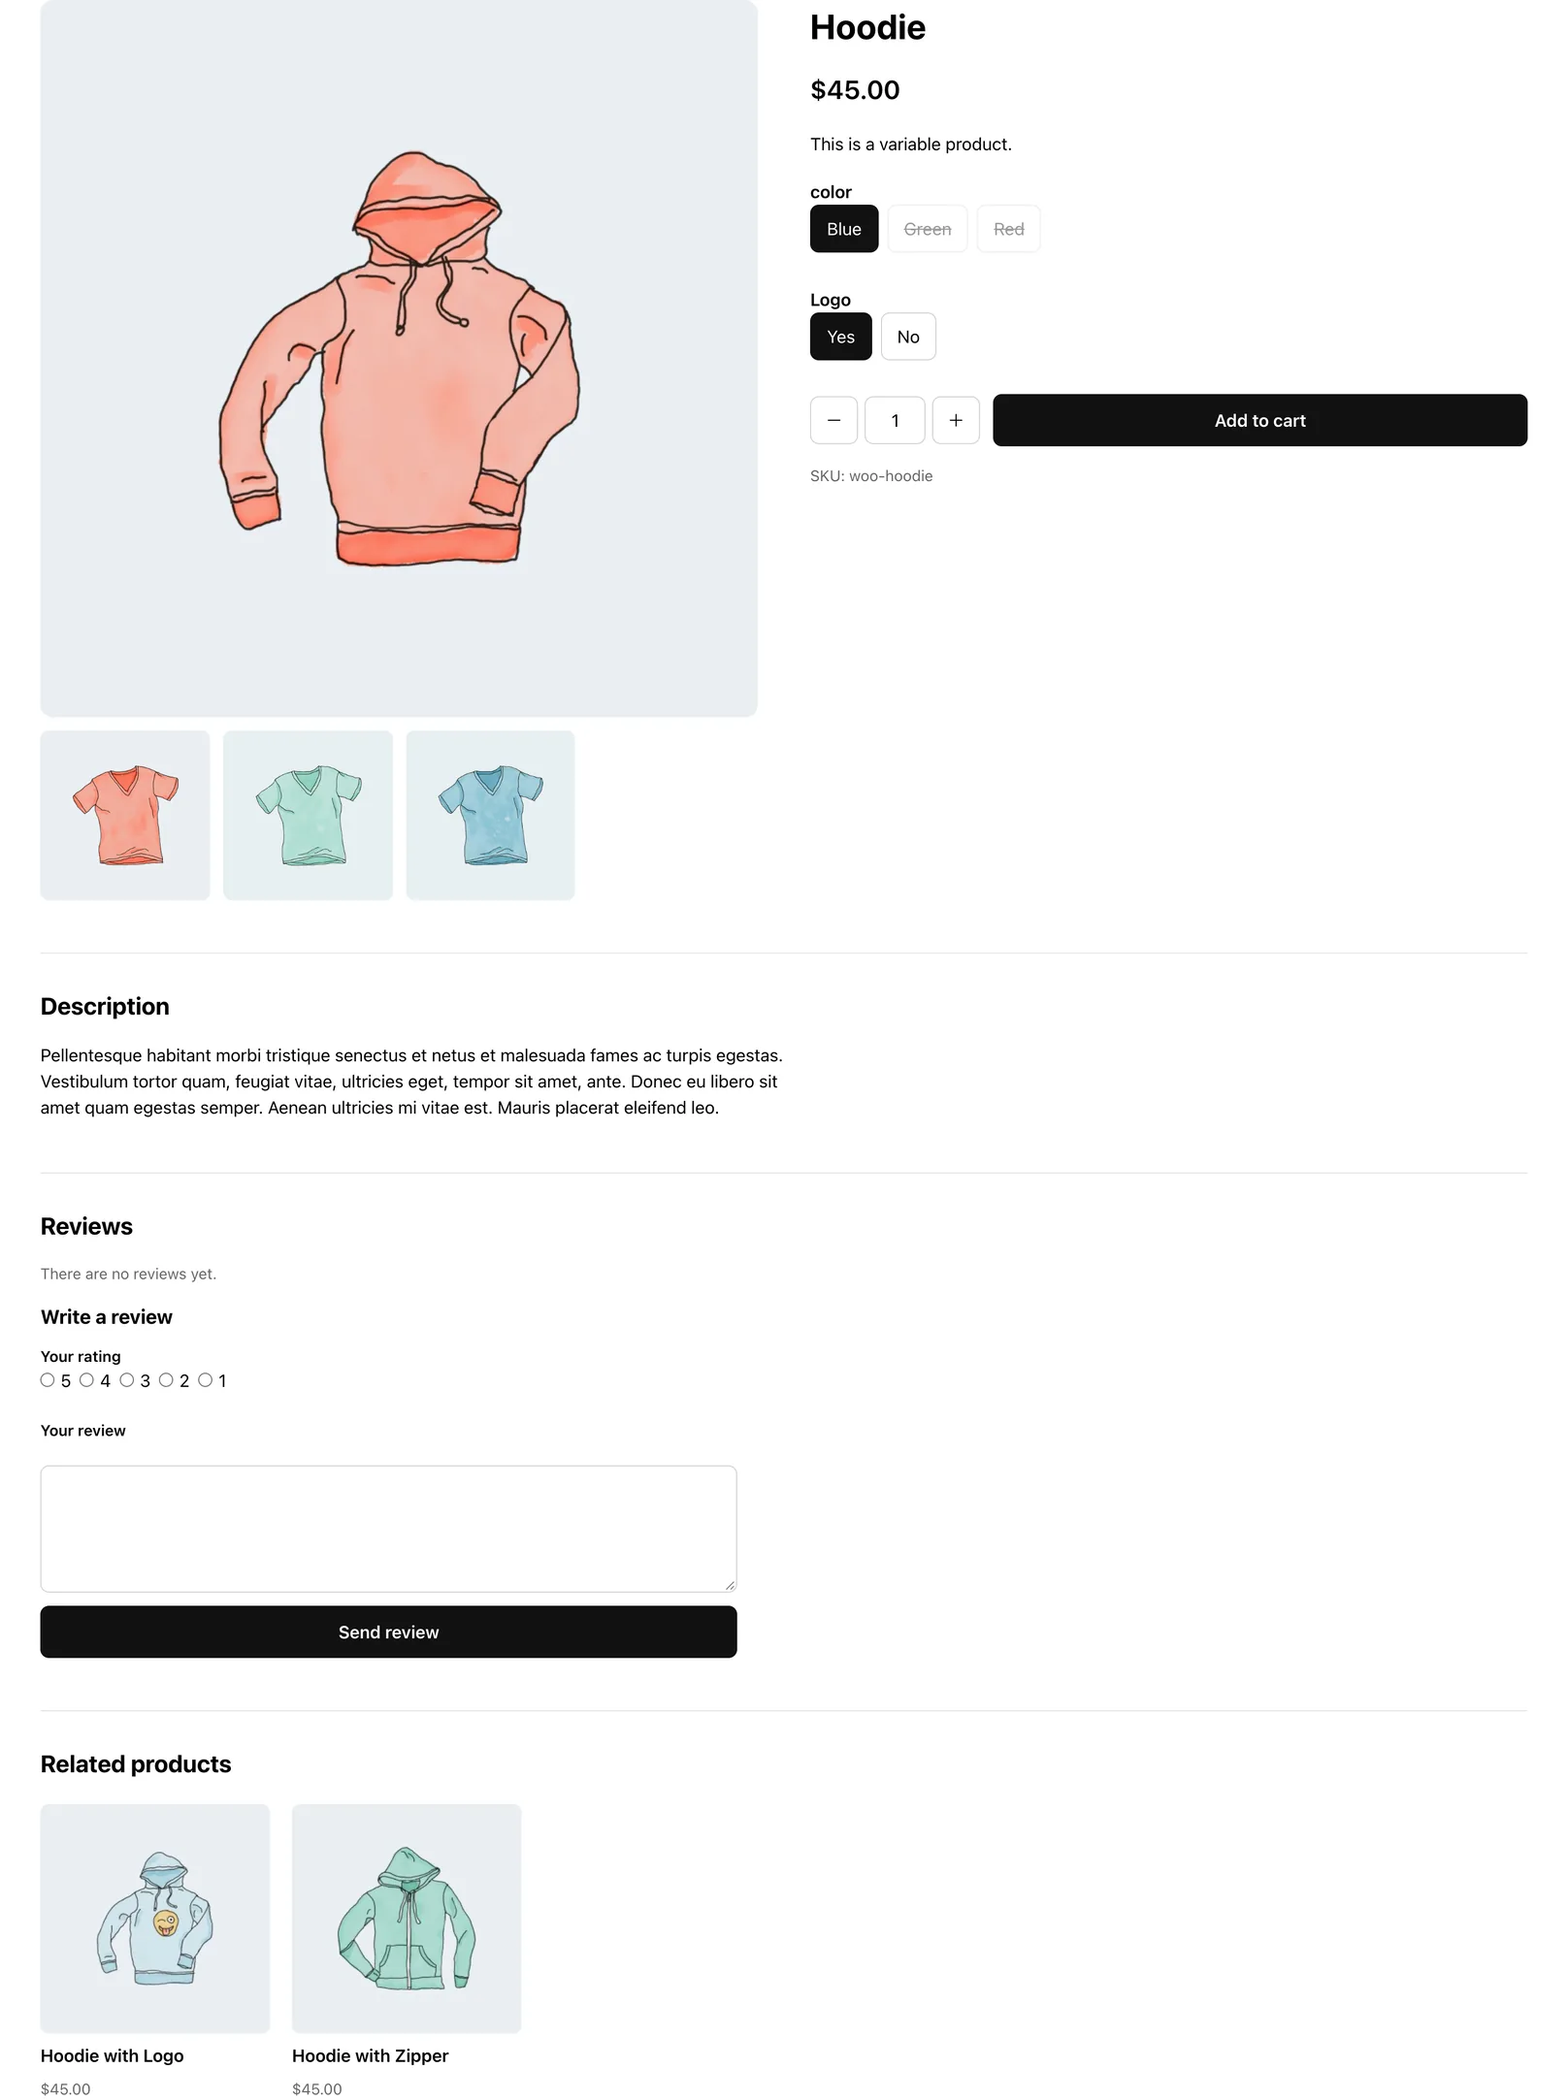
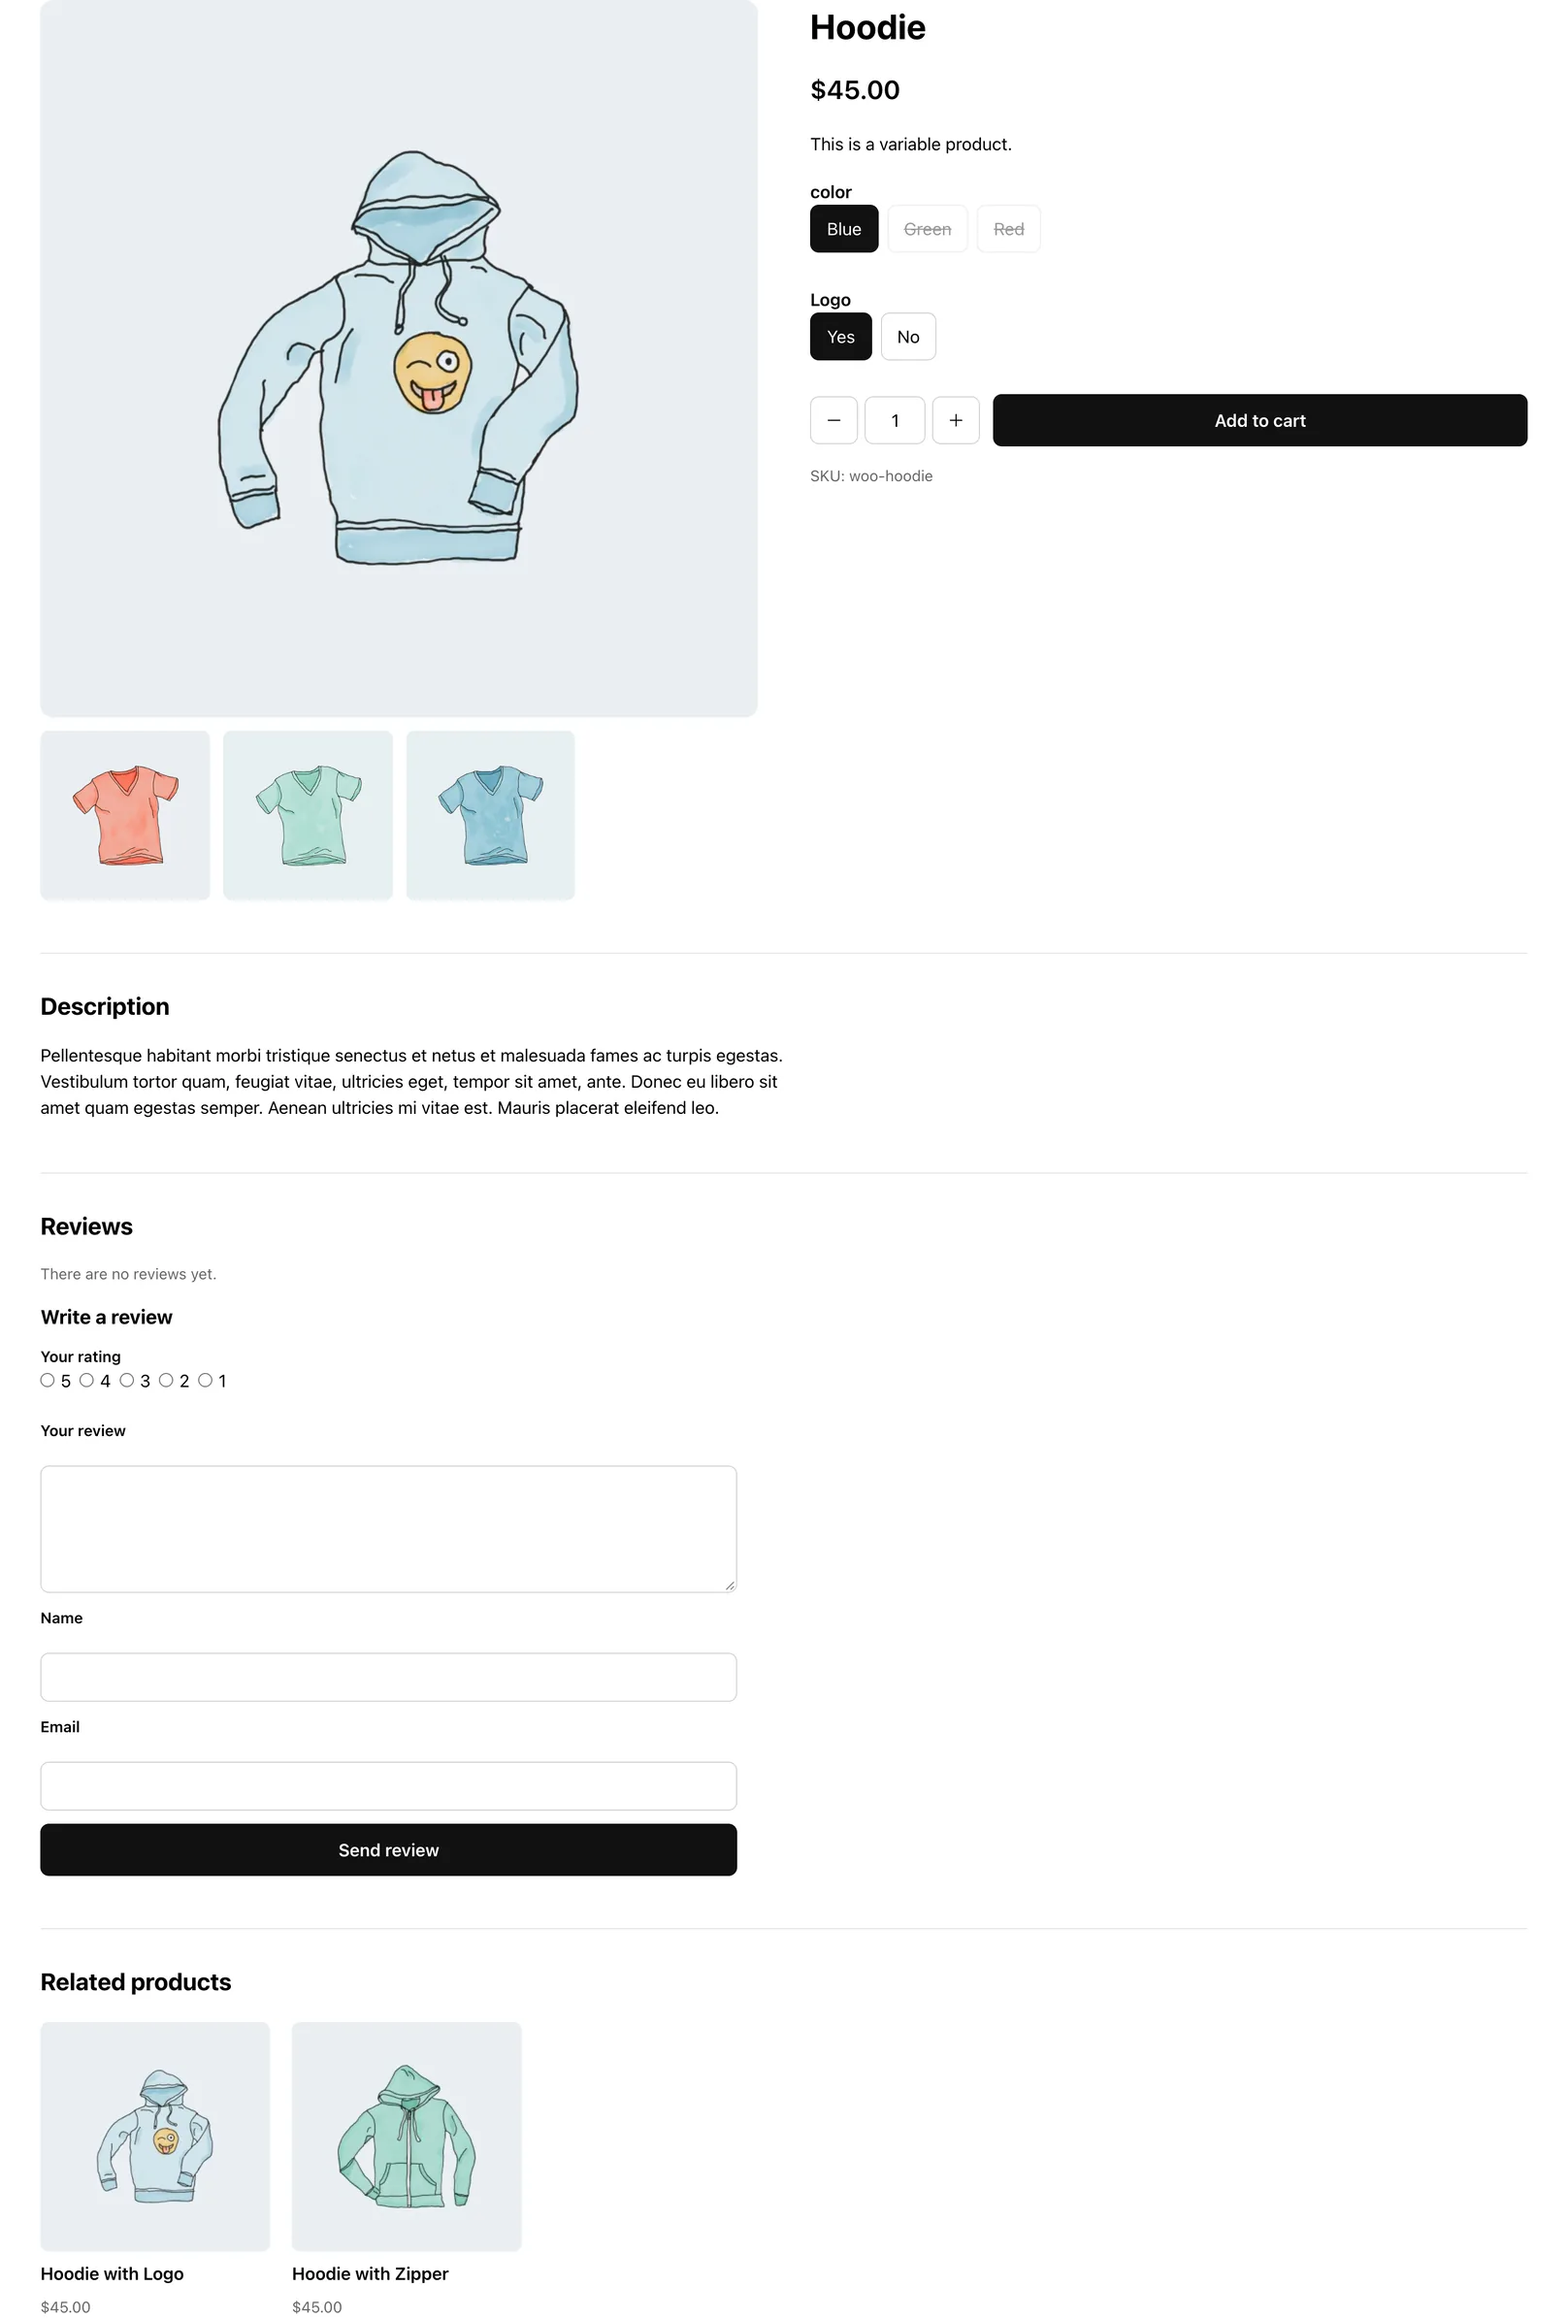
docs(woocommerce): product-image role, review contact fields and singular counts
Screenshots retaken with the fixed starters; the category page is back.

diff --git a/docs/docs/integrations/woocommerce/product-data.md b/docs/docs/integrations/woocommerce/product-data.md
@@ -45,10 +45,13 @@ Prices are plain text in the shop's format, with currency and tax as the shop di
 | Field | Content |
 | --- | --- |
 | `rating`, `rating_count`, `review_count` | Average rating and counts |
+| `has_one_review` | The product has exactly one review, for a label like `1 review` |
 | `rating_label` | The average with one decimal in the shop's number format, such as `4,5` |
 | `reviews` | Up to 20 approved reviews, newest first: `{ id, author, rating, text, date, date_iso, verified }` |
 | `reviews_open` | The shop takes reviews and the product is open for them |
-| `can_review` | The visitor may write a review. When WooCommerce allows reviews by verified owners only, this needs a logged-in customer who bought the product |
+| `can_review` | The visitor may write a review. When WooCommerce allows reviews by verified owners only, this needs a logged-in customer who bought the product. When WordPress takes comments from registered users only, guests may not review |
+| `review_contact_required` | A guest reviews and WordPress requires name and email (**Settings → Discussion**) |
+| `review_contact_optional` | A guest reviews and WordPress does not require name and email |
 
 A review form is your own markup. It posts to WordPress, which validates, stores and moderates the review as for WooCommerce's own form:
 
@@ -63,11 +66,17 @@ A review form is your own markup. It posts to WordPress, which validates, stores
   </fieldset>
   <label for="review-text">Your review</label>
   <textarea id="review-text" name="comment" required></textarea>
-  {#if !woo.account.is_logged_in}
+  {#if this.woo.review_contact_required}
   <label for="review-author">Name</label>
   <input type="text" id="review-author" name="author" autocomplete="name" required />
   <label for="review-email">Email</label>
   <input type="email" id="review-email" name="email" autocomplete="email" required />
+  {/if}
+  {#if this.woo.review_contact_optional}
+  <label for="review-author-optional">Name</label>
+  <input type="text" id="review-author-optional" name="author" autocomplete="name" />
+  <label for="review-email-optional">Email</label>
+  <input type="email" id="review-email-optional" name="email" autocomplete="email" />
   {/if}
   <input type="hidden" name="comment_post_ID" value="{this.id}" />
   <input type="hidden" name="comment_parent" value="0" />
@@ -76,7 +85,7 @@ A review form is your own markup. It posts to WordPress, which validates, stores
 {/if}
 ```
 
-`{site.url}` keeps the form working when WordPress is installed in a subdirectory. Guests who may review need the name and email fields. Keep `required` on them when **Comment author must fill out name and email** is enabled under **Settings → Discussion**, and remove it when it is not.
+`{site.url}` keeps the form working when WordPress is installed in a subdirectory. Guests get the name and email fields, required when WordPress requires them; logged-in customers get neither. **Woo Product** builds its review form this way.
 
 ## Shop-wide data
 
@@ -88,7 +97,7 @@ These keys work on every page:
 | `woo.shipping` | `countries` (the countries the store ships to, each with `code` and `name`), `calculator` (WooCommerce offers the shipping calculator on the cart) |
 | `woo.checkout.url` | Link to the checkout |
 | `woo.account` | `url`, `endpoint`, `is_dashboard`, `menu`, `is_logged_in`, and for customers `name` (first name, else display name), `orders` and `addresses` |
-| `woo.shop` | On shop, category, tag and search pages: `url`, `title`, `description`, `products` (cards like `related_products`, with `quick_add`), `total`, `pages` (`number`, `url`, `is_current`), `previous_url`, `next_url`, `sorting` (`value`, `label`, `is_current`), `search` and `categories` (`name`, `url`, `count`, `is_current`); elsewhere `url` and empty lists |
+| `woo.shop` | On shop, category, tag and search pages: `url`, `title`, `description`, `products` (cards like `related_products`, with `quick_add`), `total`, `has_one_product` (for `1 product`), `pages` (`number`, `url`, `is_current`), `previous_url`, `next_url`, `sorting` (`value`, `label`, `is_current`), `search` and `categories` (`name`, `url`, `count`, `is_current`); elsewhere `url` and empty lists |
 | `woo.order` | The current order on the thank-you page and in the account, following WooCommerce's access rules |
 
 Loop over the cart with `woo.cart.items`. Each item is one line: `item.name`, `item.quantity`, `item.price`.

diff --git a/docs/docs/integrations/woocommerce/product-pages.md b/docs/docs/integrations/woocommerce/product-pages.md
@@ -14,7 +14,7 @@ A product form adds a product to the cart. You design it completely: swatches, p
 | Component | What it shows |
 | --- | --- |
 | **Woo Product** | The page: store notices, gallery and summary side by side, then description, reviews and related products (`this.woo.related_products`) |
-| **Woo Product Gallery** | The product image and the gallery images |
+| **Woo Product Gallery** | The product image, which switches to the chosen variation's image (`product-image`), and the gallery images |
 | **Woo Product Form** | Price, short description, one choice per variation option, quantity buttons and add to cart |
 | **Woo Product Reviews** | Approved reviews and the review form |
 
@@ -32,6 +32,7 @@ A product form adds a product to the cart. You design it completely: swatches, p
 | `variation-option` | radio, `name="{attribute.slug}"`, `value="{option.slug}"` | Chooses an option; disabled when no variation in stock fits the other choices |
 | `option-price` | text inside the option's label | The option's price once it settles the variation |
 | `product-price` | text, `{this.woo.price}` | The chosen variation's price; the server's price until one is chosen |
+| `product-image` | `img` with `data-etch-woo-id="{this.id}"`, outside the form | Shows the chosen variation's own image; the product image again when the choice has none |
 | `product-quantity` | `input` | Quantity; 1 when left out |
 | `quantity-step` | `button` with `data-etch-woo-step="1"` or `"-1"` | Changes the quantity, never below 1 |
 | `product-addon` | checkbox with `data-etch-woo-id` = product or variation ID | An accessory added together with the product, in the same quantity |

diff --git a/docs/docs/integrations/woocommerce/shop-pages.md b/docs/docs/integrations/woocommerce/shop-pages.md
@@ -63,6 +63,8 @@ The template stays the frame around it.
 
 The products are the page's own, so WooCommerce's sorting, filters, paging and the shop's products per page apply.
 
+![A category page from Woo Shop: the current category is marked in the list, simple products have Add to cart, variable ones Select options](img/woo-category.webp)
+
 The sorting is a `select` with the role `catalog-sorting` and `name="orderby"` inside a GET form. Choosing an order submits the form, as WooCommerce's own dropdown does. On search results the form keeps the search terms (`woo.shop.search`).
 
 ## Order confirmation
